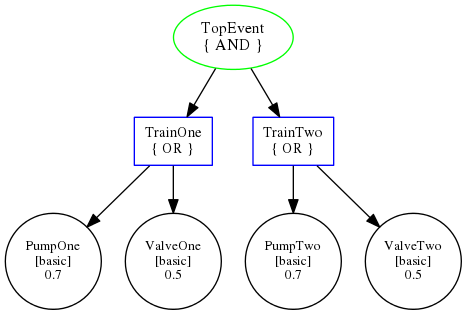
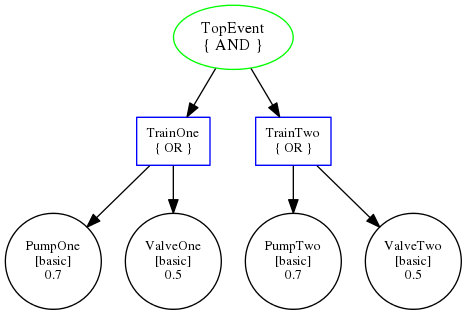
New graphs for documentation.

Changed region(s): [[0.5396, 0.3714, 0.7195, 0.5429], [0.2698, 0.3714, 0.4797, 0.5429]]

diff --git a/src/grapher.cc b/src/grapher.cc
@@ -32,6 +32,7 @@ void Grapher::GraphFaultTree(
   // List inter events and primary events' descriptions.
   // Getting events from the fault tree object.
 
+  /// @todo Option to graph re-used gates as a separate transfer trees.
   top_event_ = fault_tree->top_event();
   inter_events_ = fault_tree->inter_events();
   primary_events_ = fault_tree->primary_events();
@@ -108,7 +109,7 @@ void Grapher::GraphFaultTree(
         out << "\"" <<  orig_ids_[it->first] << "_R" << i
             << "\" [shape=triangle, ";
       }
-      out << "fontsize=11, fontcolor=black, "
+      out << "fontsize=10, fontcolor=black, "
           << "color=" << gate_colors[type] << ", "
           << "label=\"" << orig_ids_[it->first] << "\\n"
           << "{ " << gate;

diff --git a/doc/fta_graphing.rst b/doc/fta_graphing.rst
@@ -45,7 +45,6 @@ Two Train System
 ----------------
 .. image:: two_train.png
 
-Three Motor
+Lift
 -----------
-.. image:: three_motor.png
-.. image:: t.png
+.. image:: lift.png
